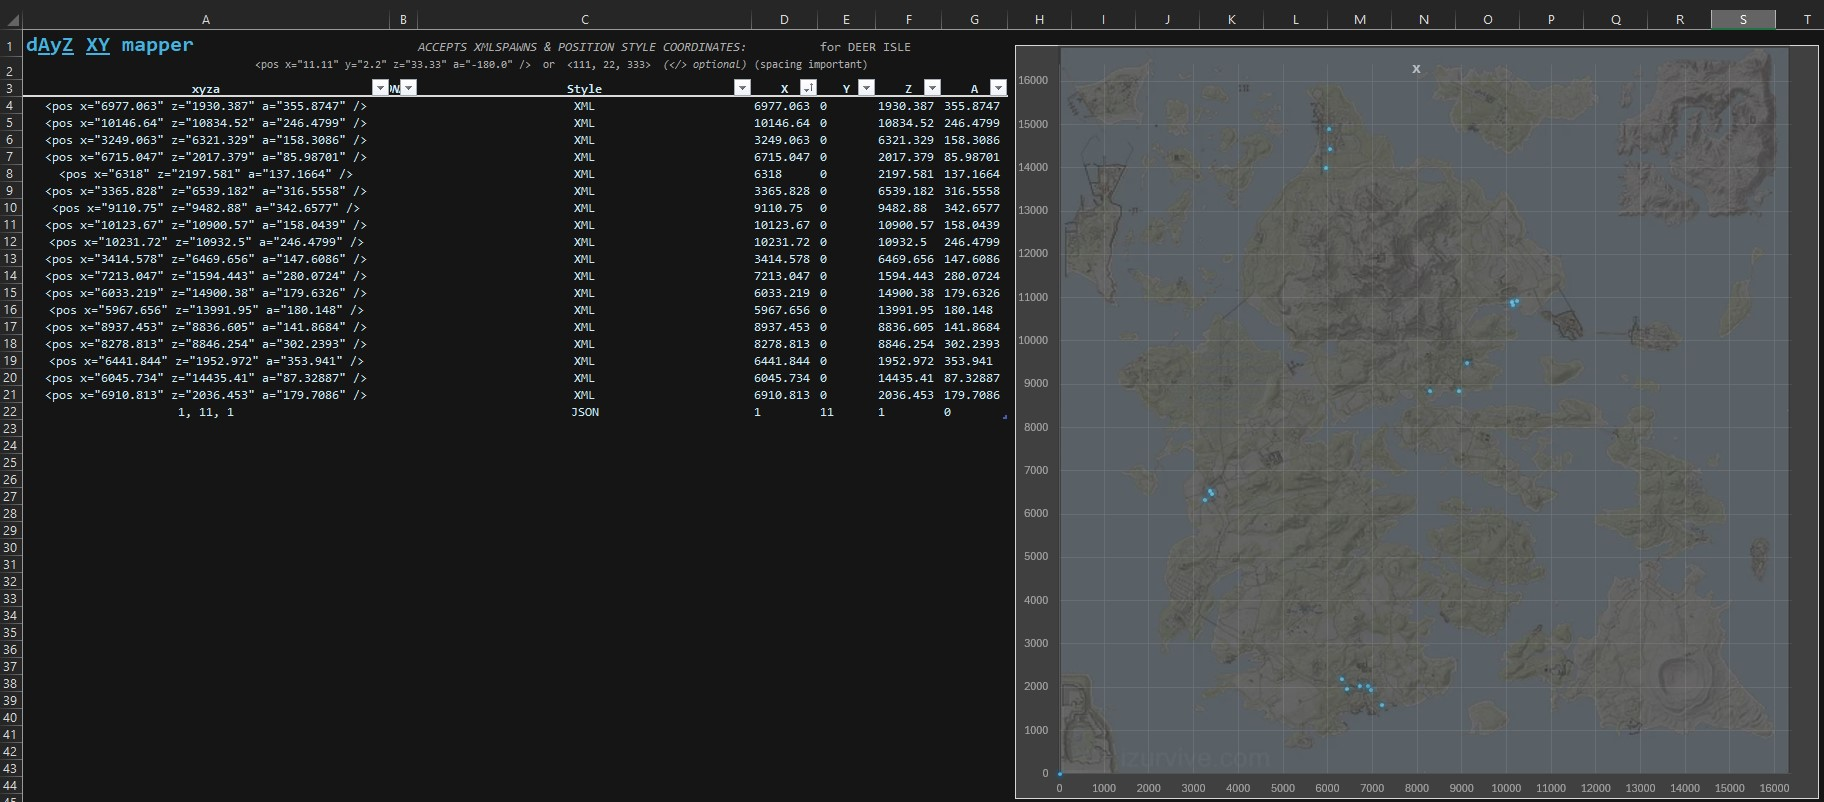
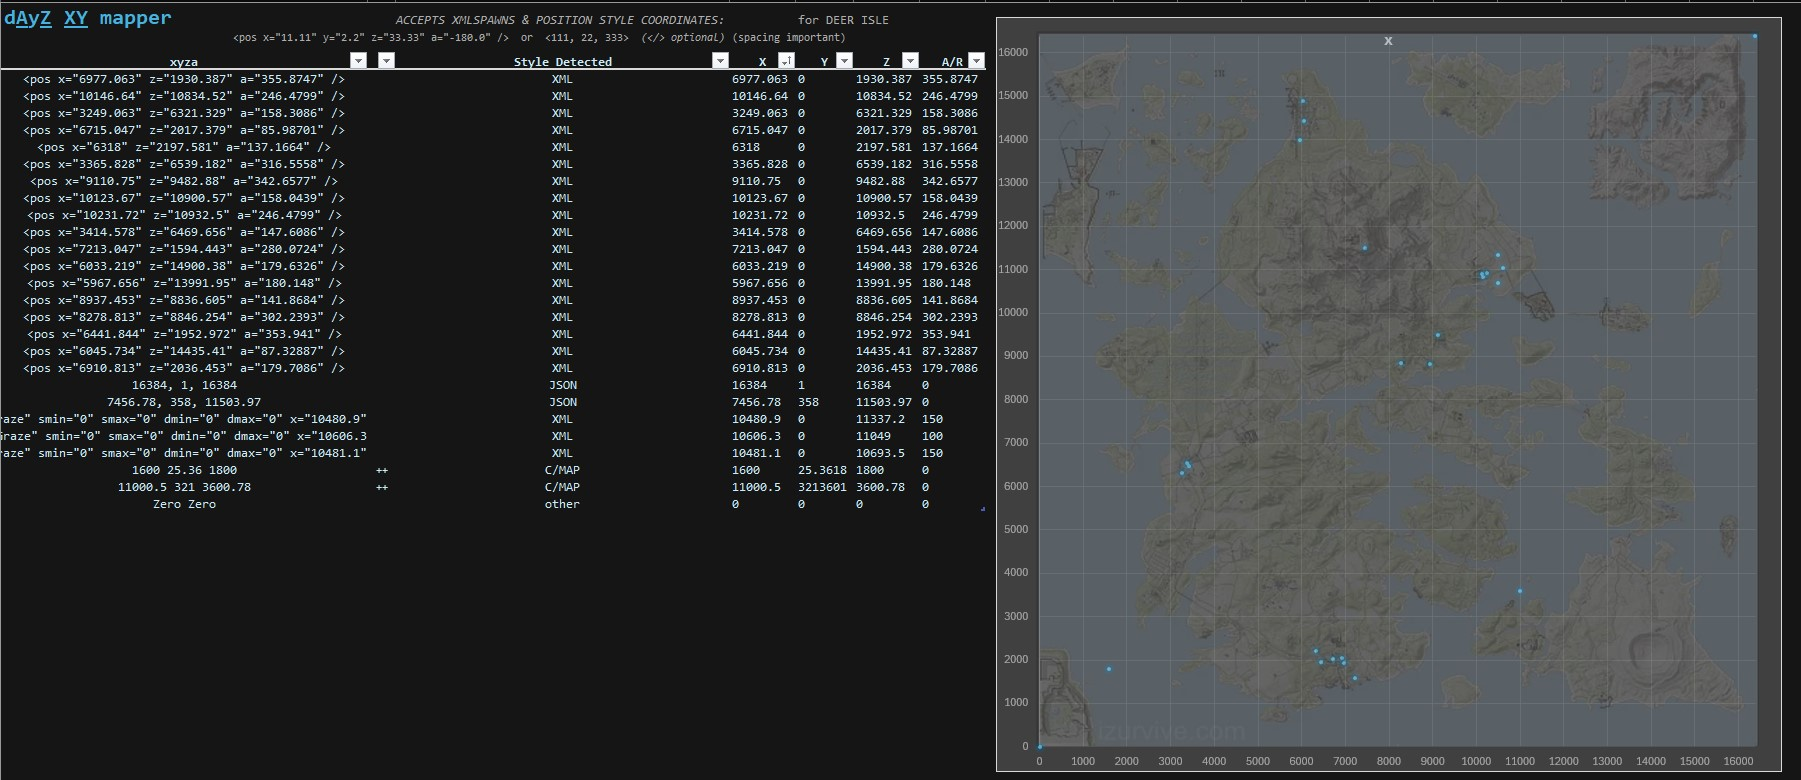
Repository

diff --git a/Server_Tools/dayz_xy_mapper/readme.md b/Server_Tools/dayz_xy_mapper/readme.md
@@ -8,6 +8,12 @@ v 0.0 - A tool for simply visualizing your DayZ mapping from xml and json files
 * Edit chart and table formats to suit your needs, _but careful you can mess up the look quickly!_
 * Y and A coords there for future plans
 
+TAKES INPUTS:
+* "pos" Event XMLs (x= z=)
+* "zone" Environment XMLs (x= z=)
+* "json" comma delineated coordinates (x,y,z)
+* "C/map" space delineated coordinates (x y z)
+______
 * The Coordinate Converter provided is an easy to use xml<->json map position conversion tool
 
 _This file has ZERO VBA or macro code involved and is super lightweight._
